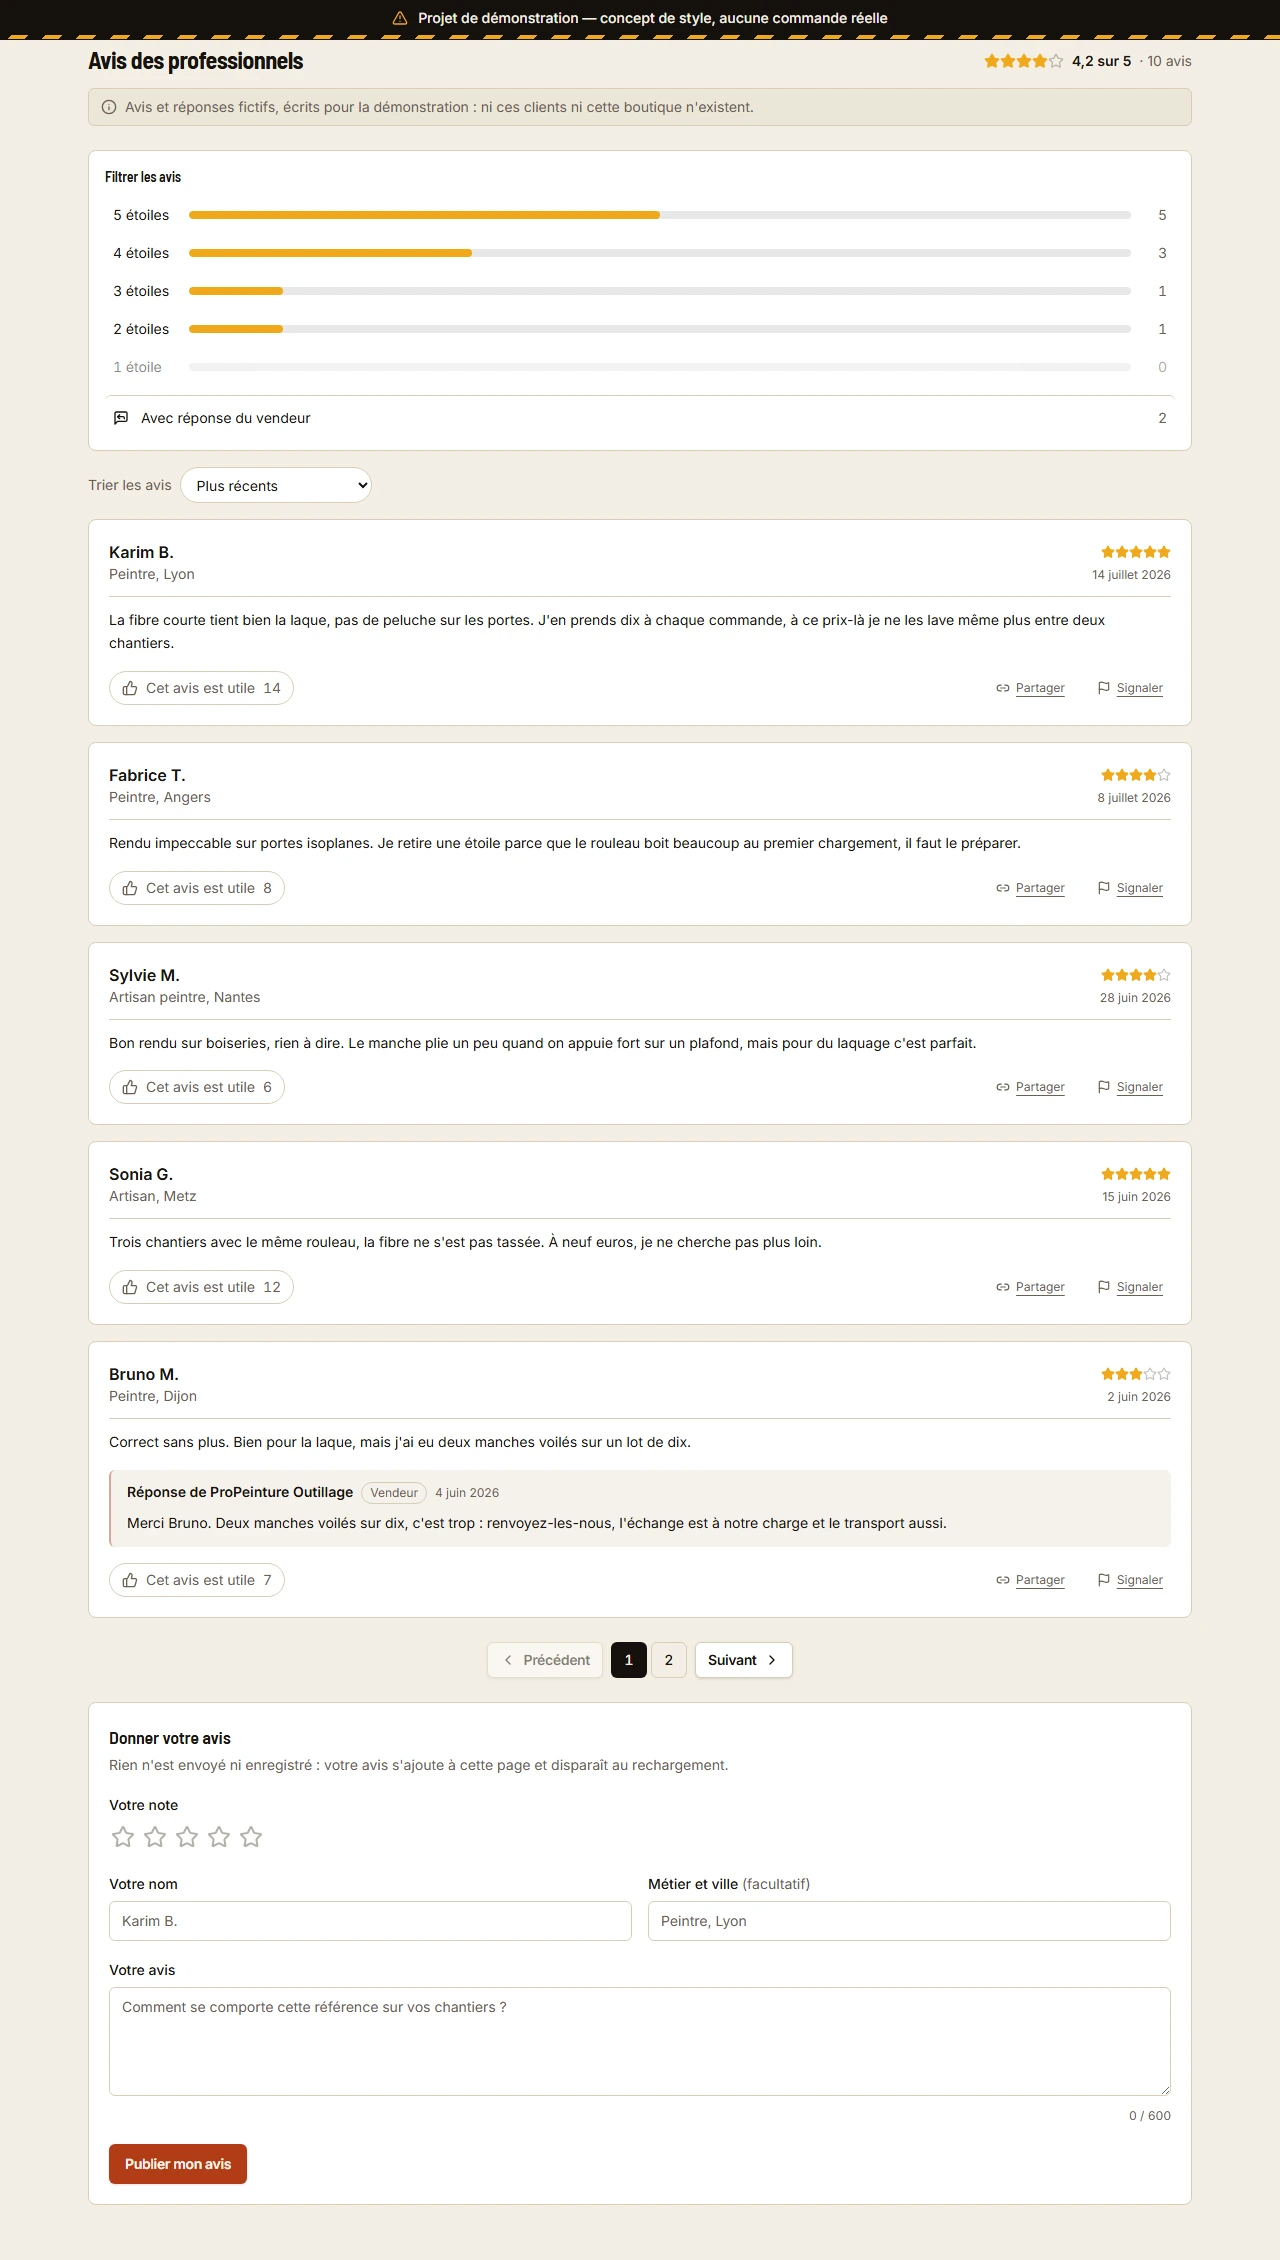
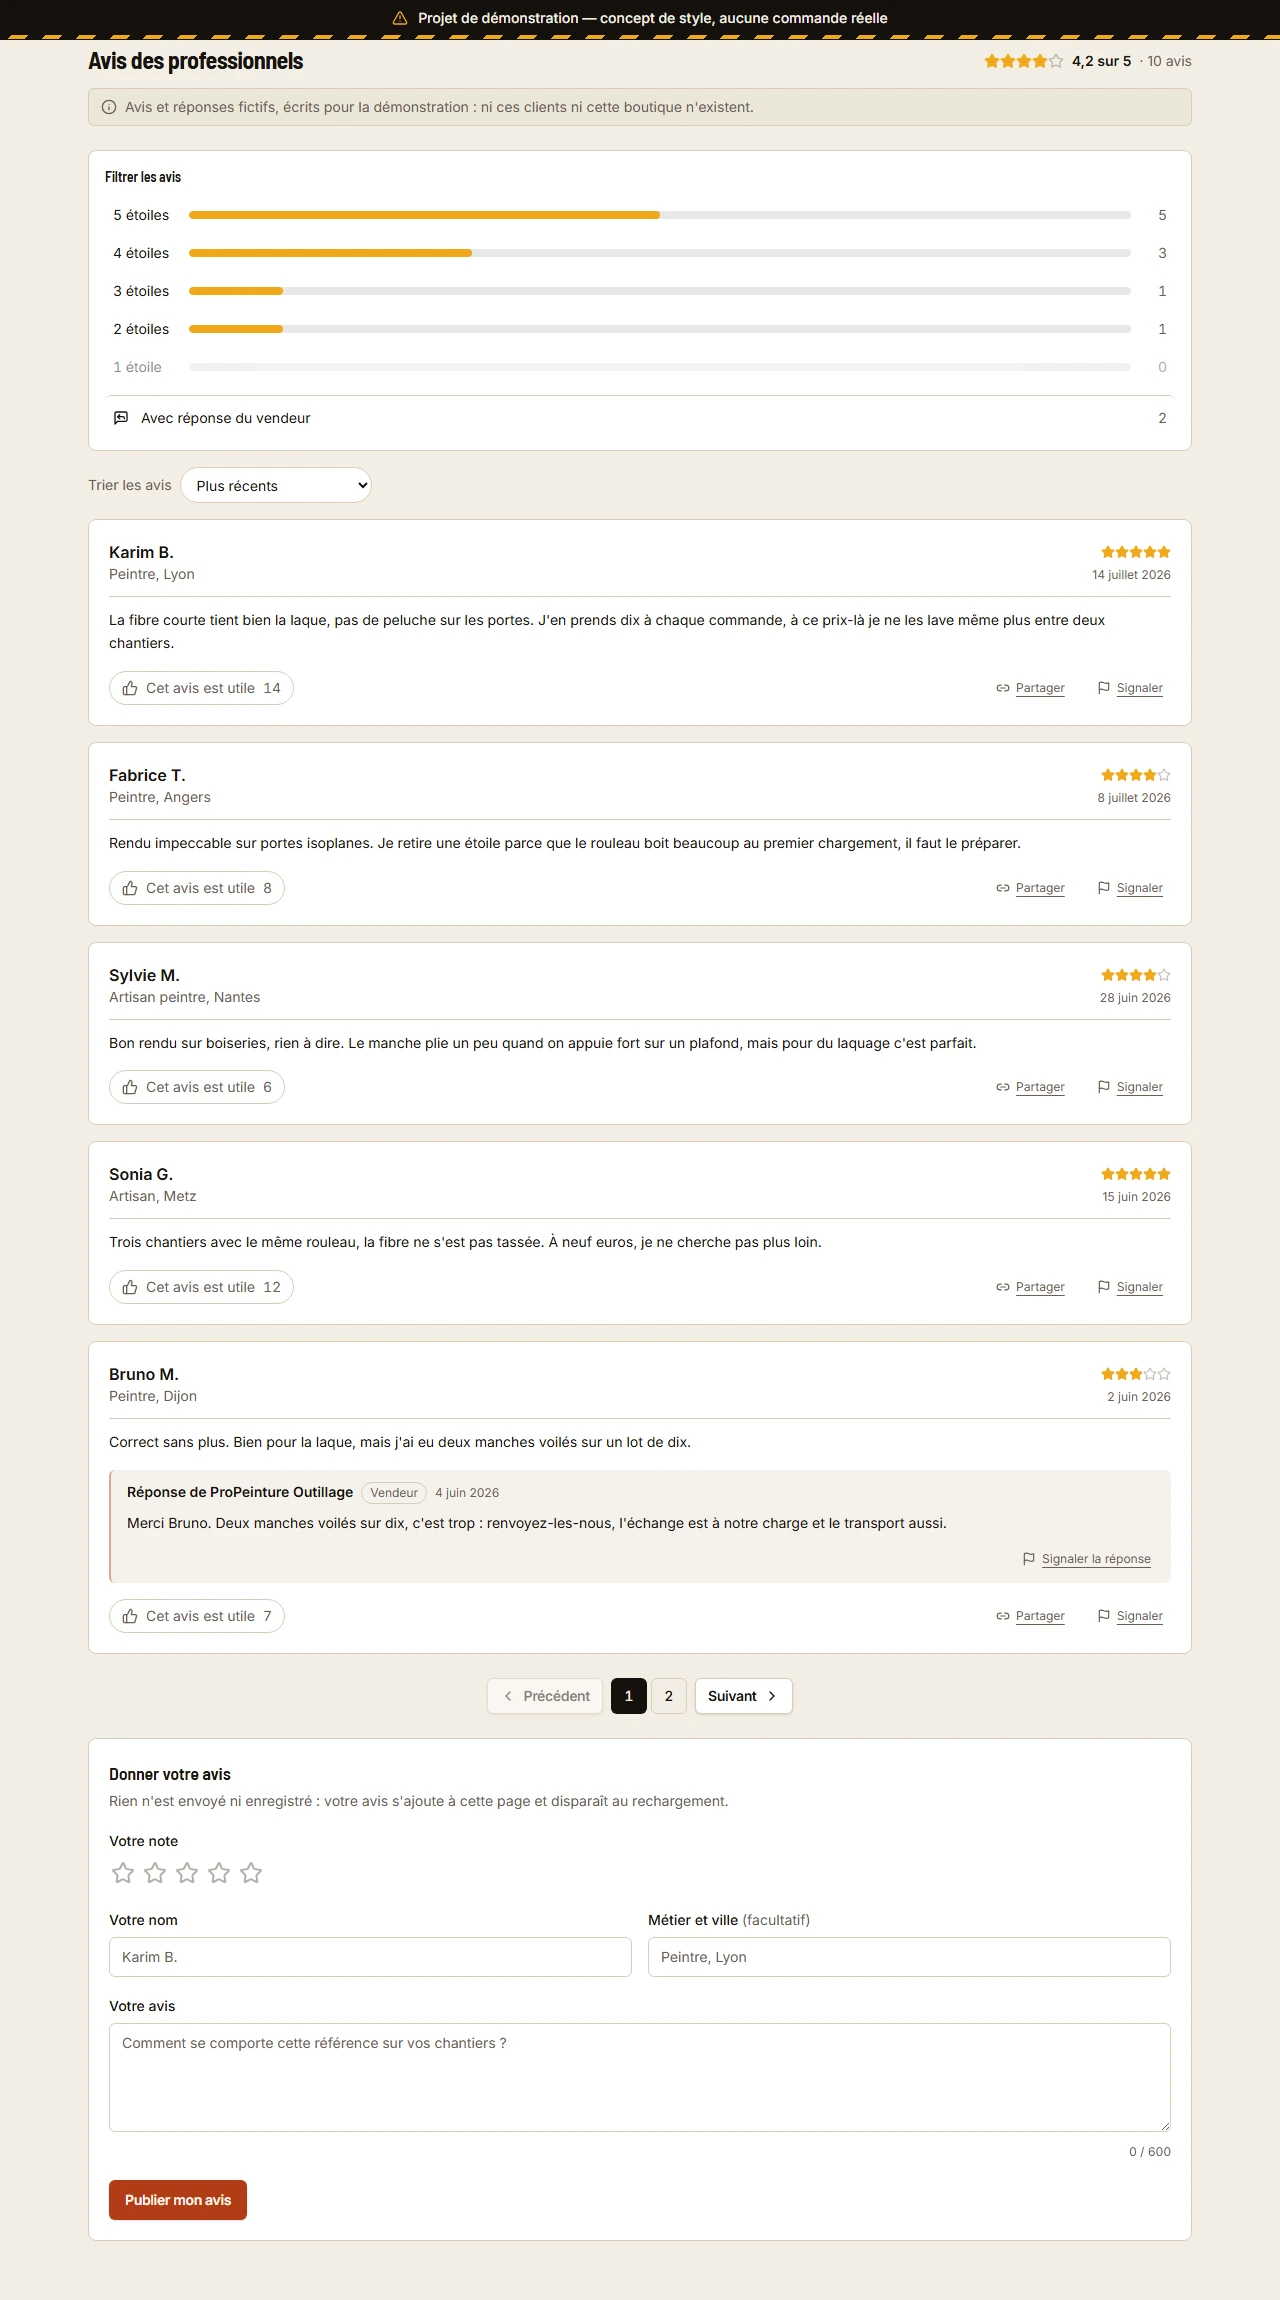
Ajoute un signalement propre à la réponse du vendeur
On peut trouver la réponse déplacée sans rien reprocher à l'avis : deux
paroles, deux signalements, deux clés dans le même état.

Les libellés nomment leur cible, sinon deux boutons homonymes se
suivraient dans la carte — « Signaler la réponse » et, une fois signalée,
« Annuler le signalement de la réponse ».

diff --git a/src/components/sections/AvisClients.tsx b/src/components/sections/AvisClients.tsx
@@ -96,7 +96,10 @@ export function AvisClients({
   const [avecReponse, setAvecReponse] = React.useState(false)
   /** Avis que le visiteur a marqués utiles. Rien n'est envoyé, comme le reste. */
   const [votes, setVotes] = React.useState<ReadonlySet<string>>(new Set())
-  /** Avis signalés. Aucune modération derrière : la page le dit à l'écran. */
+  /**
+   * Signalements en cours, par clé : l'identifiant de l'avis, ou celui de sa
+   * réponse. Aucune modération derrière : la page le dit à l'écran.
+   */
   const [signales, setSignales] = React.useState<ReadonlySet<string>>(new Set())
   /** Dernier lien copié, pour la confirmation, et son issue. */
   const [partage, setPartage] = React.useState<{
@@ -193,13 +196,16 @@ export function AvisClients({
    * un signalement par erreur ne doit pas être une impasse, et remplacer le
    * bouton par un autre élément ferait perdre le focus au clavier.
    */
-  function basculerSignalement(id: string) {
+  function basculerSignalement(cle: string) {
     setSignales((actuels) => {
       const suivants = new Set(actuels)
-      if (!suivants.delete(id)) suivants.add(id)
+      if (!suivants.delete(cle)) suivants.add(cle)
       return suivants
     })
   }
+
+  /** La réponse se signale à part de l'avis : deux paroles, deux clés. */
+  const cleReponse = (avis: Avis) => `reponse-${avis.id}`
 
   const parNote = (a: Avis) => filtreNote === null || a.note === filtreNote
   const parReponse = (a: Avis) => !avecReponse || Boolean(a.reponse)
@@ -483,6 +489,41 @@ export function AvisClients({
                     <p className="mt-2 text-sm leading-relaxed">
                       {avis.reponse.texte}
                     </p>
+
+                    {/* Son propre signalement : on peut trouver la réponse
+                        déplacée sans rien reprocher à l'avis. Le libellé le
+                        dit, sinon deux boutons « Signaler » se suivraient
+                        dans la même carte sans qu'on sache lequel vise quoi. */}
+                    <div className="mt-3 flex flex-wrap items-center justify-end gap-2">
+                      <p
+                        role="status"
+                        className="flex items-center gap-1.5 text-xs text-muted-foreground"
+                      >
+                        {signales.has(cleReponse(avis)) && (
+                          <>
+                            <Flag
+                              className="size-3.5 fill-current"
+                              aria-hidden="true"
+                            />
+                            Signalée, rien n'a été envoyé
+                          </>
+                        )}
+                      </p>
+                      <button
+                        type="button"
+                        onClick={() => basculerSignalement(cleReponse(avis))}
+                        className="inline-flex shrink-0 items-center gap-1.5 rounded-full px-2 py-1 text-xs text-muted-foreground transition-colors hover:text-primary focus-visible:outline-none focus-visible:ring-2 focus-visible:ring-ring focus-visible:ring-offset-2 focus-visible:ring-offset-card"
+                      >
+                        {!signales.has(cleReponse(avis)) && (
+                          <Flag className="size-3.5" aria-hidden="true" />
+                        )}
+                        <span className="underline underline-offset-4">
+                          {signales.has(cleReponse(avis))
+                            ? "Annuler le signalement de la réponse"
+                            : "Signaler la réponse"}
+                        </span>
+                      </button>
+                    </div>
                   </div>
                 )}
 

diff --git a/README.md b/README.md
@@ -145,7 +145,11 @@ seulement ici » — rien n'est envoyé, comme le reste de la maquette. Un avis
 déposé depuis la page démarre à zéro.
 
 Quatre avis portent une réponse publique de la boutique, décalée sous l'avis
-auquel elle répond et signée d'un badge « Vendeur ». Le champ est facultatif :
+auquel elle répond et signée d'un badge « Vendeur ». Elle a son propre
+signalement : on peut trouver la réponse déplacée sans rien reprocher à
+l'avis. Son libellé nomme ce qu'il vise — « Signaler la réponse », « Annuler
+le signalement de la réponse » —, sans quoi deux boutons homonymes se
+suivraient dans la même carte. Le champ est facultatif :
 un vendeur ne répond pas à tout, et une réponse sous chaque avis sonnerait
 faux. Ce sont les avis mitigés qui en reçoivent une, comme sur une vraie
 vitrine, avec une date forcément postérieure à celle de l'avis. La rangée
